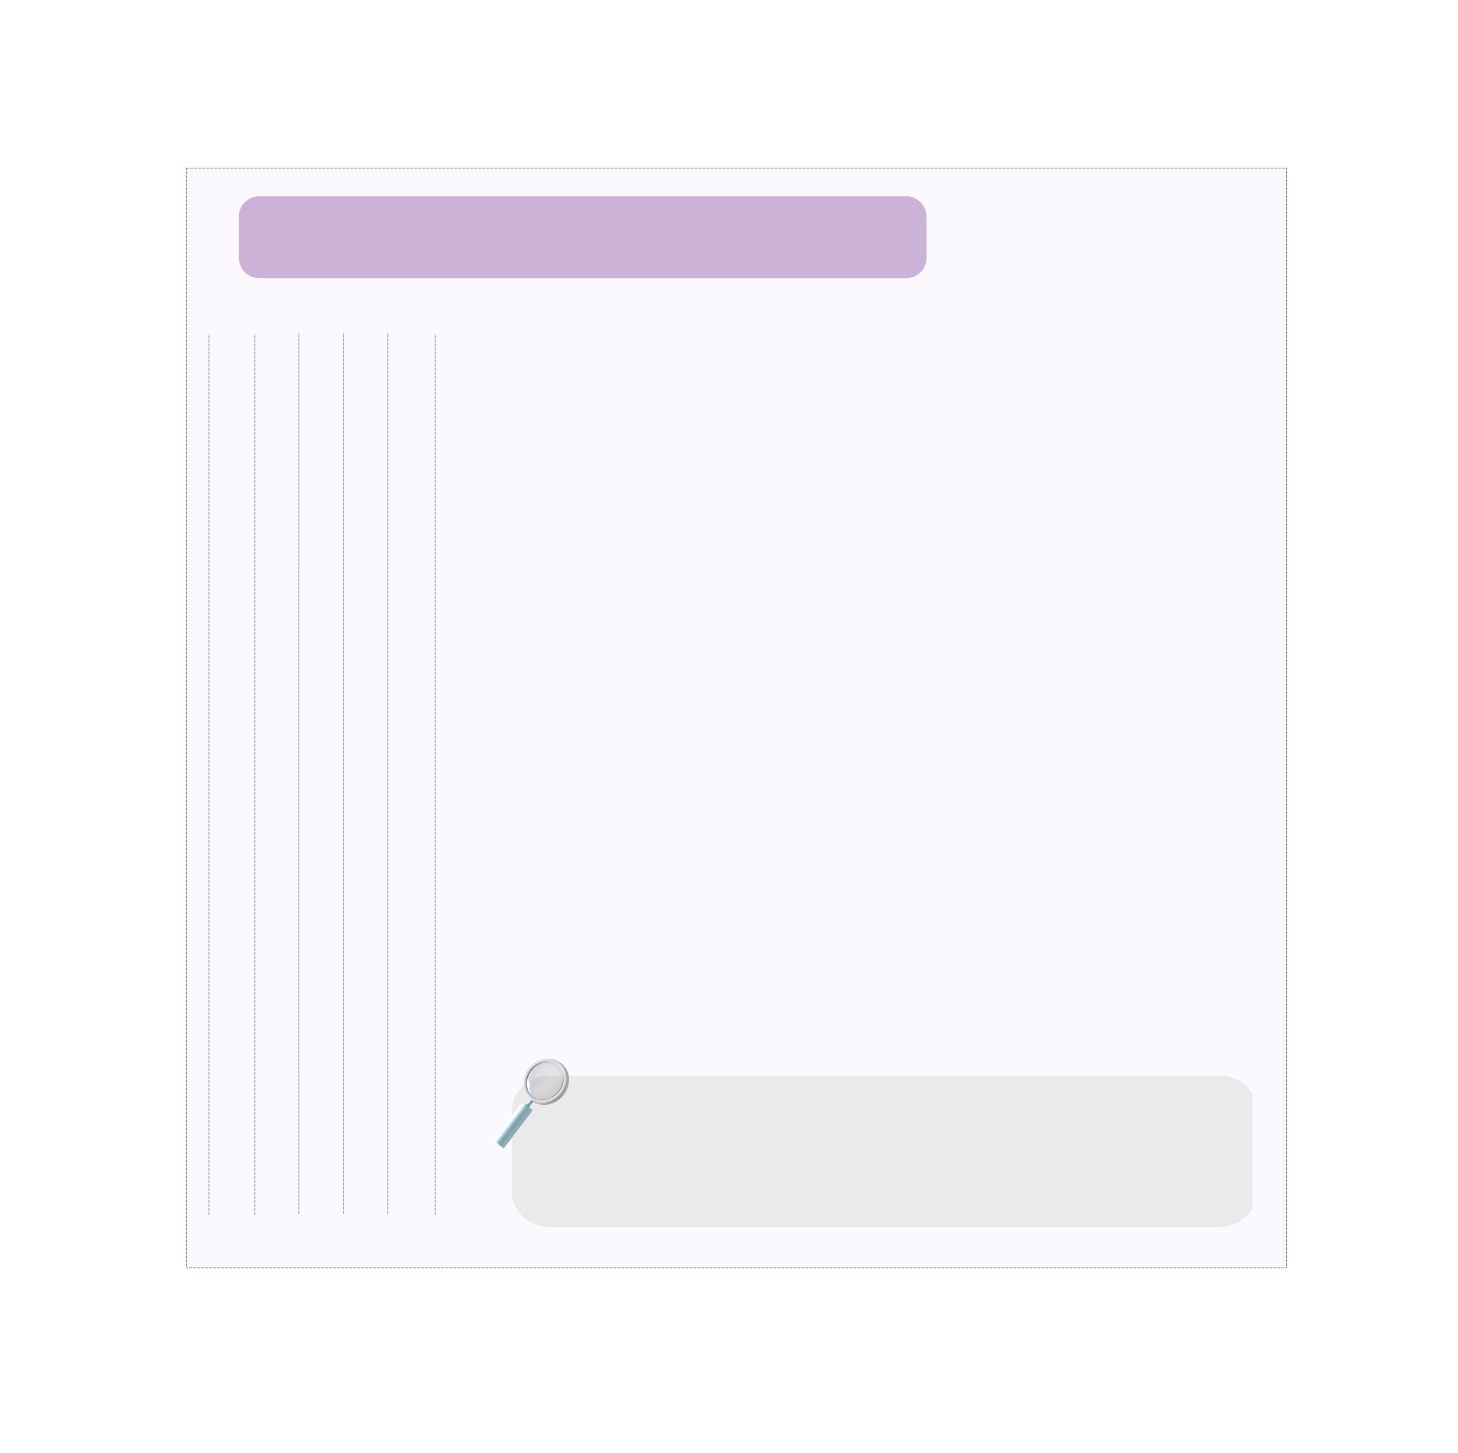
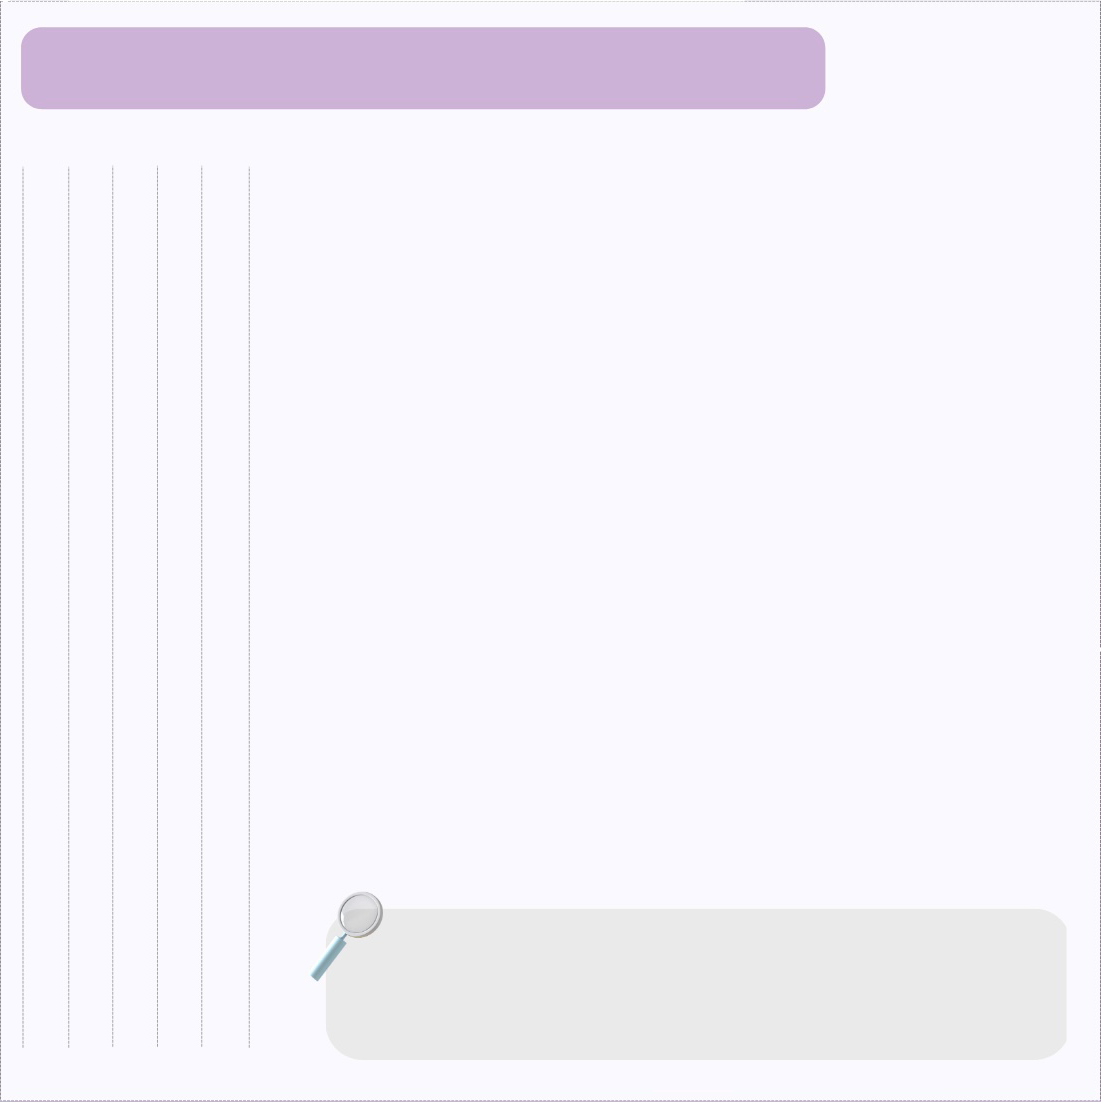
夢絵日記画像の調整

Changed region(s): [[0.0, 0.0, 0.772, 0.216], [0.0, 0.9873, 1.0, 1.0], [0.2779, 0.7096, 0.4015, 0.8947]]

diff --git a/app/controllers/concerns/ogp_creator.rb b/app/controllers/concerns/ogp_creator.rb
@@ -19,7 +19,7 @@ class OgpCreator
     result = base_image.composite(MiniMagick::Image.open('image.png')) do |config|
       config.compose 'Over'
       config.gravity 'NorthEast'
-      config.geometry '+220+300'#位置調整
+      config.geometry '+60+140'#位置調整
     end
 
     title = prepare_text(title)
@@ -35,15 +35,14 @@ class OgpCreator
       config.fill 'black'
       config.gravity GRAVITY
       config.pointsize 35
-      config.draw "text -150, -490 '#{title}'"
-      config.pointsize 30
-      config.draw "text 360, -510 '#{date}'"
-      config.draw "text 360, -470 '#{type}・#{impression}'"
-      config.draw "text 150, 430 '#{content}'"
+      config.draw "text -135, -485 '#{title}'"
       config.pointsize 25
+      config.draw "text 390, -500 '#{date}'"
+      config.draw "text 390, -460 '#{type}・#{impression}'"
+      config.draw "text 150, 430 '#{content}'"
       config.draw "text 150, 320 '「#{prompt}」'"
       config.pointsize 35
-      insert_vertical_word(body, 395, 345, 35, config)
+      insert_vertical_word(body, 205, 175, 35, config)
     end
   end
   
@@ -56,7 +55,7 @@ class OgpCreator
     blob = Base64.decode64(base64_string)
     image = MiniMagick::Image.read(blob)
     image = image.combine_options do |c|
-      c.resize '720x720'
+      c.resize '710x710'
     end
     image.write 'image.png'
   end
